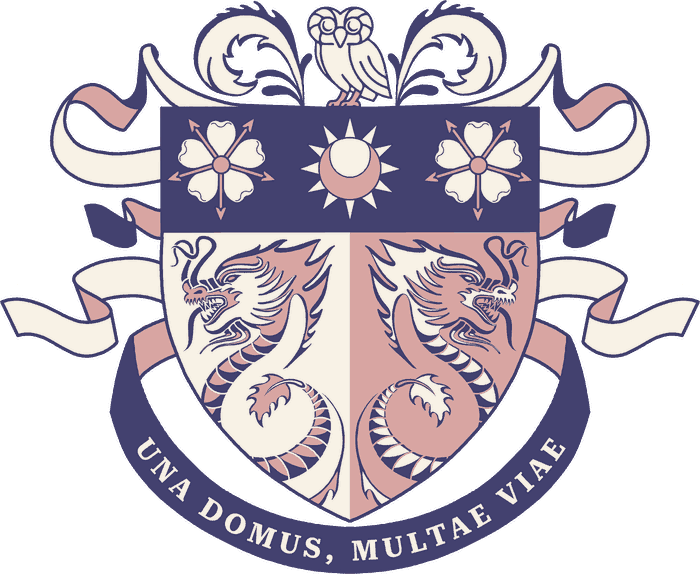
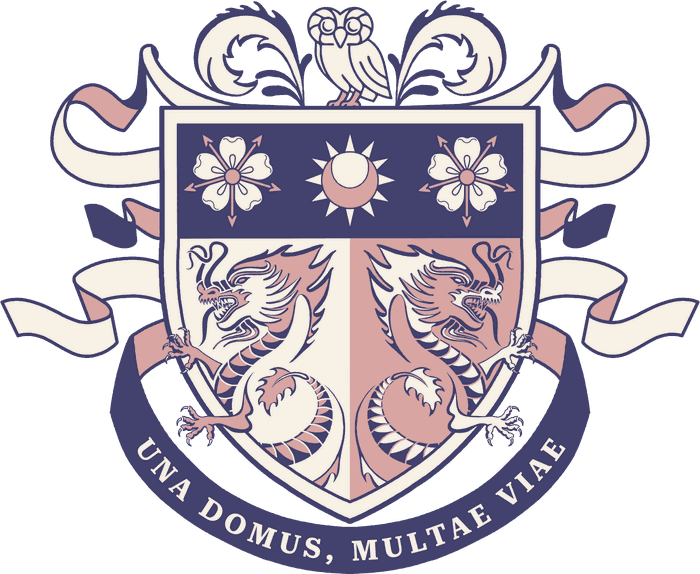
Replace the crest with the new artwork
New master, and crest.png, crest.webp, favicon.png and apple-touch-icon
regenerated from it by the documented route: trim to the alpha bounding
box, resize, palette-quantize the PNG, letterbox the square icons.

Two things worth recording. The artwork's aspect ratio is 1.219 against
the old 1.220, so the derivatives come out at exactly the sizes they
were and nothing on the page shifts. And the three crest colours are
unchanged — navy is #41406E to the byte, cream and blush differ by 1/255
from webp compression — so brand/tokens.css still matches the artwork
and no palette change follows from this.

The master is 2000x2000 rather than the old 3508x3508; the README no
longer claims it is ready for print.

diff --git a/README.md b/README.md
@@ -171,14 +171,15 @@ No color is hardcoded anywhere outside `brand/tokens.css`.
 
 ## Crest, motto and mascot
 
-- **Crest** — `brand/crest-master.png` is the master artwork: 3508x3508,
+- **Crest** — `brand/crest-master.png` is the master artwork: 2000x2000,
   transparent. The web-ready derivatives in `assets/img/` (`crest.png`,
   `crest.webp`, `favicon.png`, `apple-touch-icon.png`) are generated from it.
   The master carries a wide transparent margin, so the derivatives are trimmed
   to the artwork's alpha bounding box — otherwise the 34px nav mark would
   render tiny inside an empty box. `crest.png` is palette-quantized (the
-  artwork is three flat colors plus antialiasing), which takes it from 343KB to
-  61KB with no visible difference. It appears in the nav bar and
+  artwork is three flat colors plus antialiasing), which takes it from 376KB to
+  69KB with no visible difference. The square icons are the trimmed crest
+  letterboxed on a transparent canvas, not cropped, so nothing is cut off. It appears in the nav bar and
   set between "Chao" and "College" in the hero. Because the crest is drawn in
   navy on a transparent ground it would vanish against the navy nav bar, so in
   the header only it sits on a cream plate. Set `crestImage: null` in
@@ -189,8 +190,9 @@ No color is hardcoded anywhere outside `brand/tokens.css`.
   `data/pages.js` if the college wants it published.
 - **Mascot** — Dragons. In `data/site.js` (`mascot`) and the About facts.
 
-The master is high-resolution enough for print. If a true vector (SVG/EPS/PDF)
-ever turns up it is still worth swapping in, but nothing on the site needs it.
+At 2000px the master is comfortable for the web and for small print, but it is
+not what you would hand a banner printer. If a true vector (SVG/EPS/PDF) ever
+turns up it is worth swapping in — nothing on the site needs it, but print will.
 
 ## Placeholder policy
 
